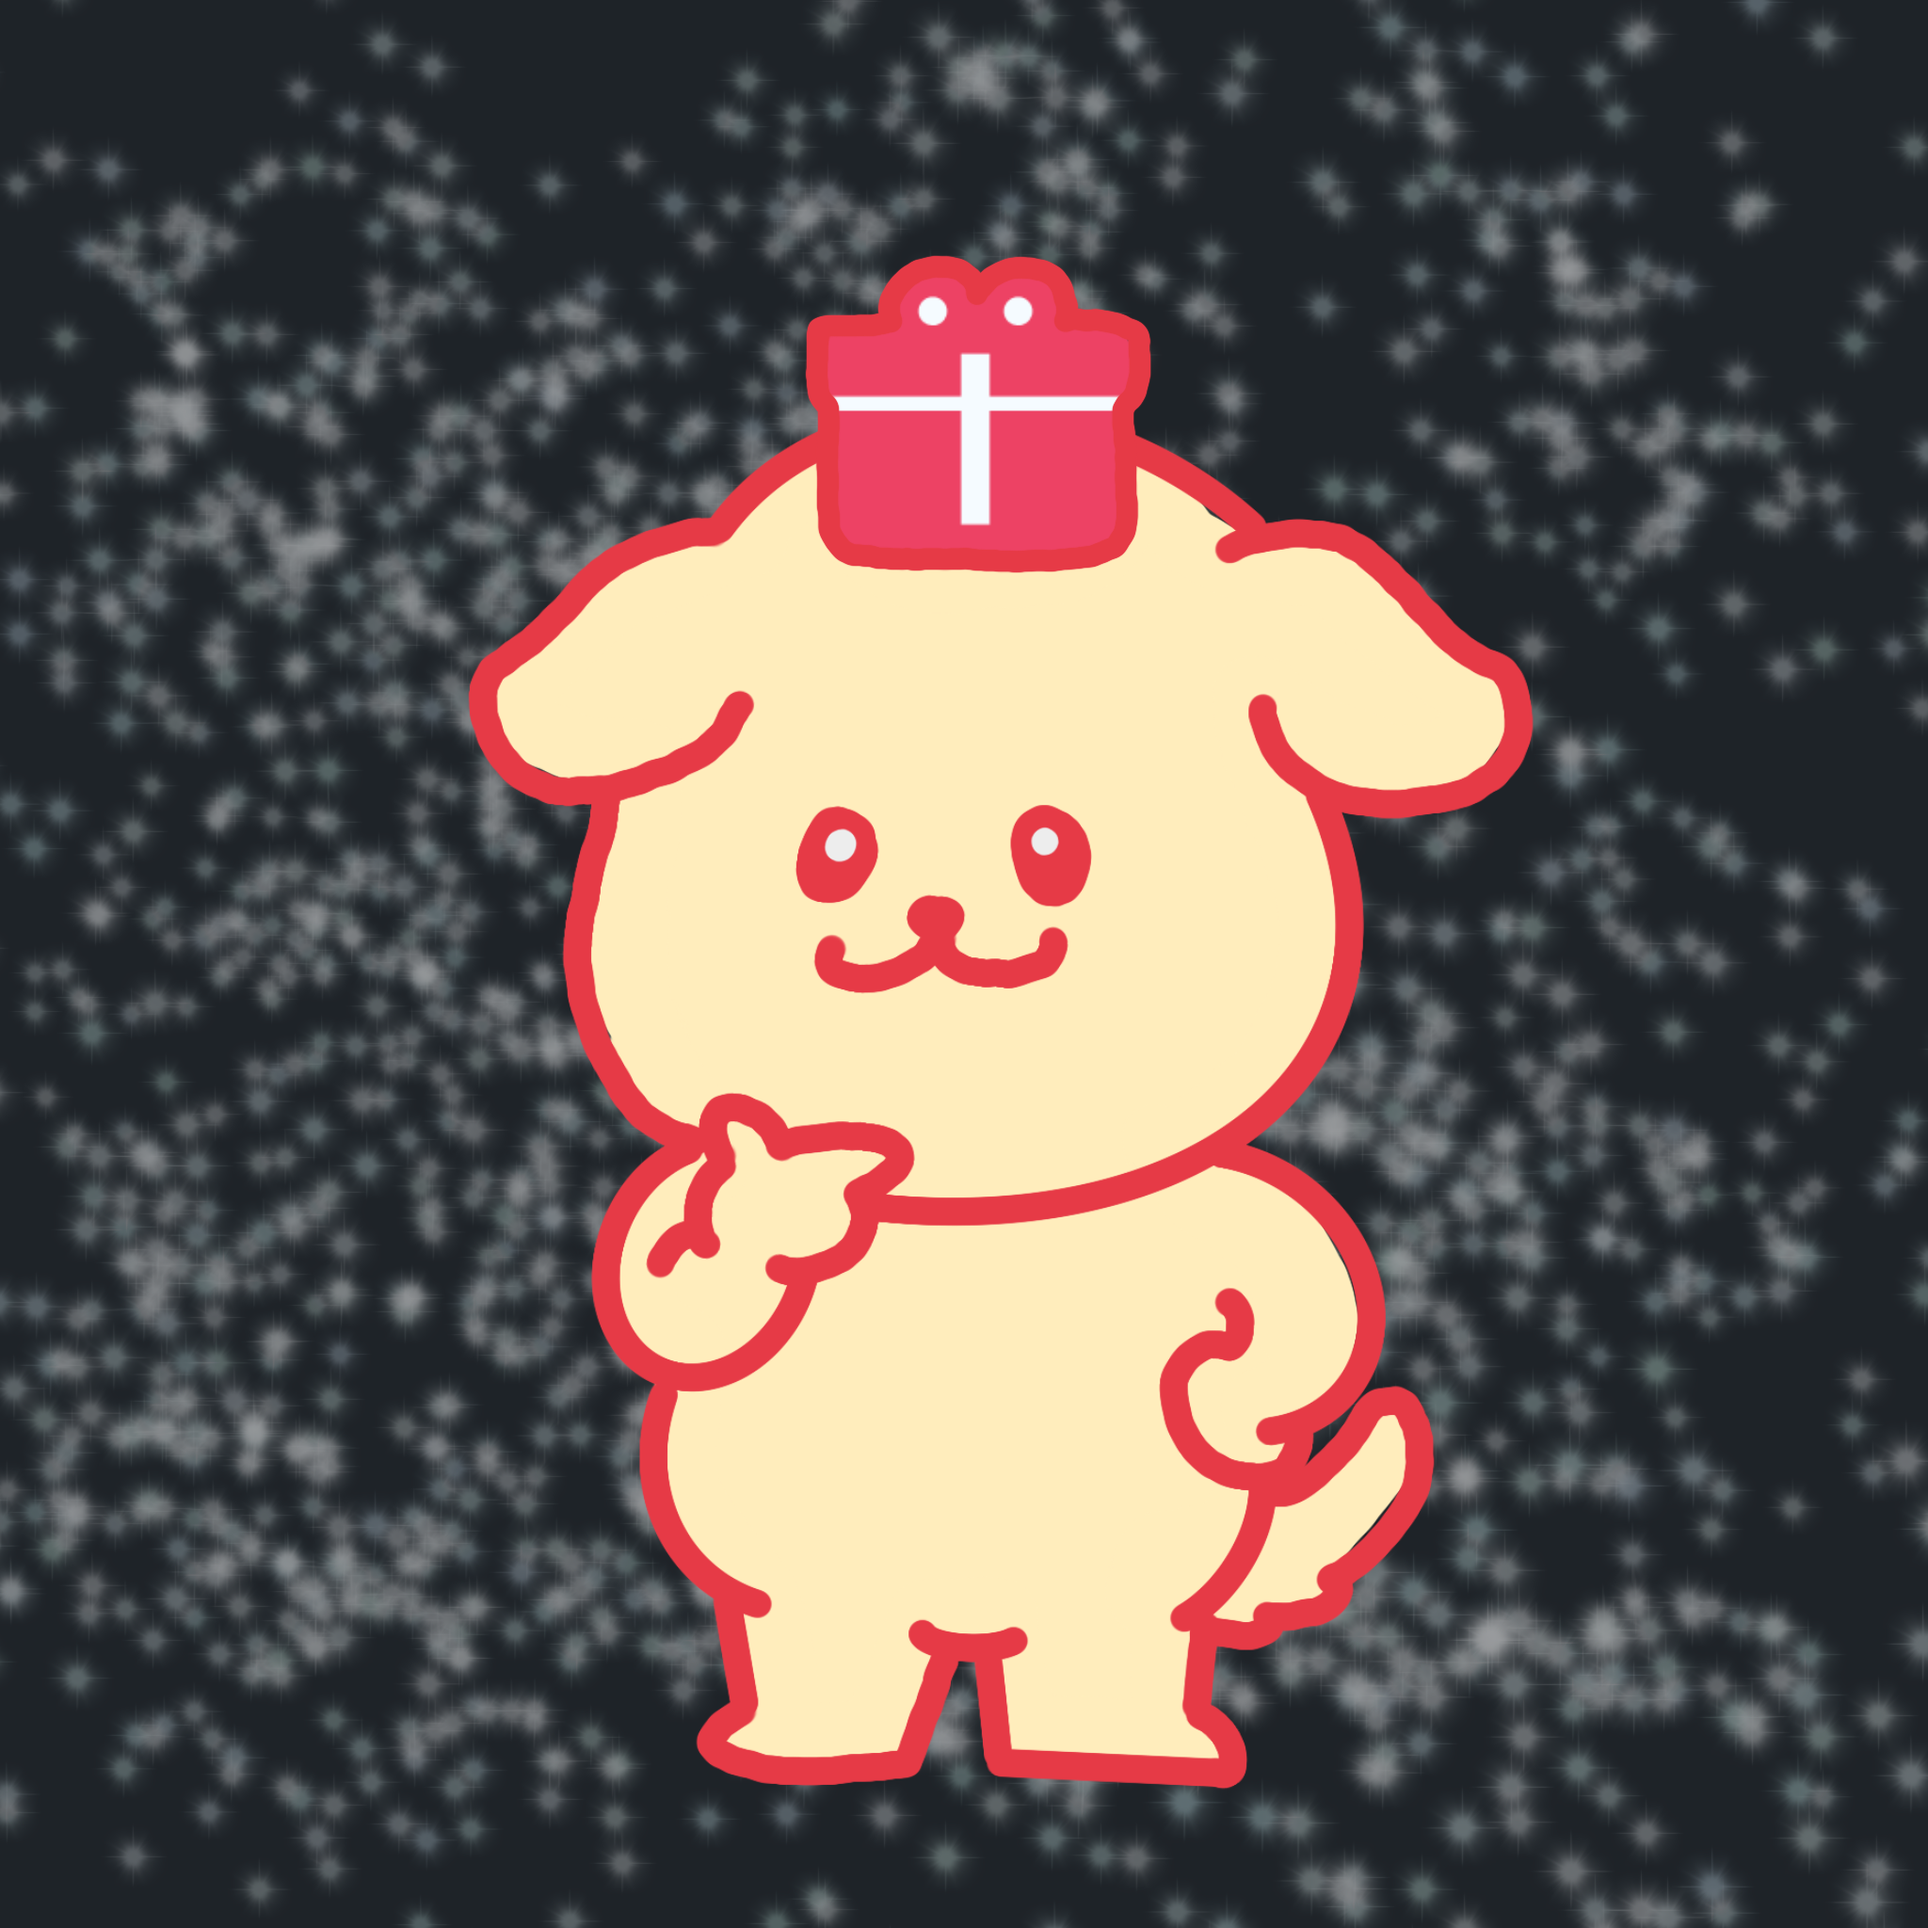
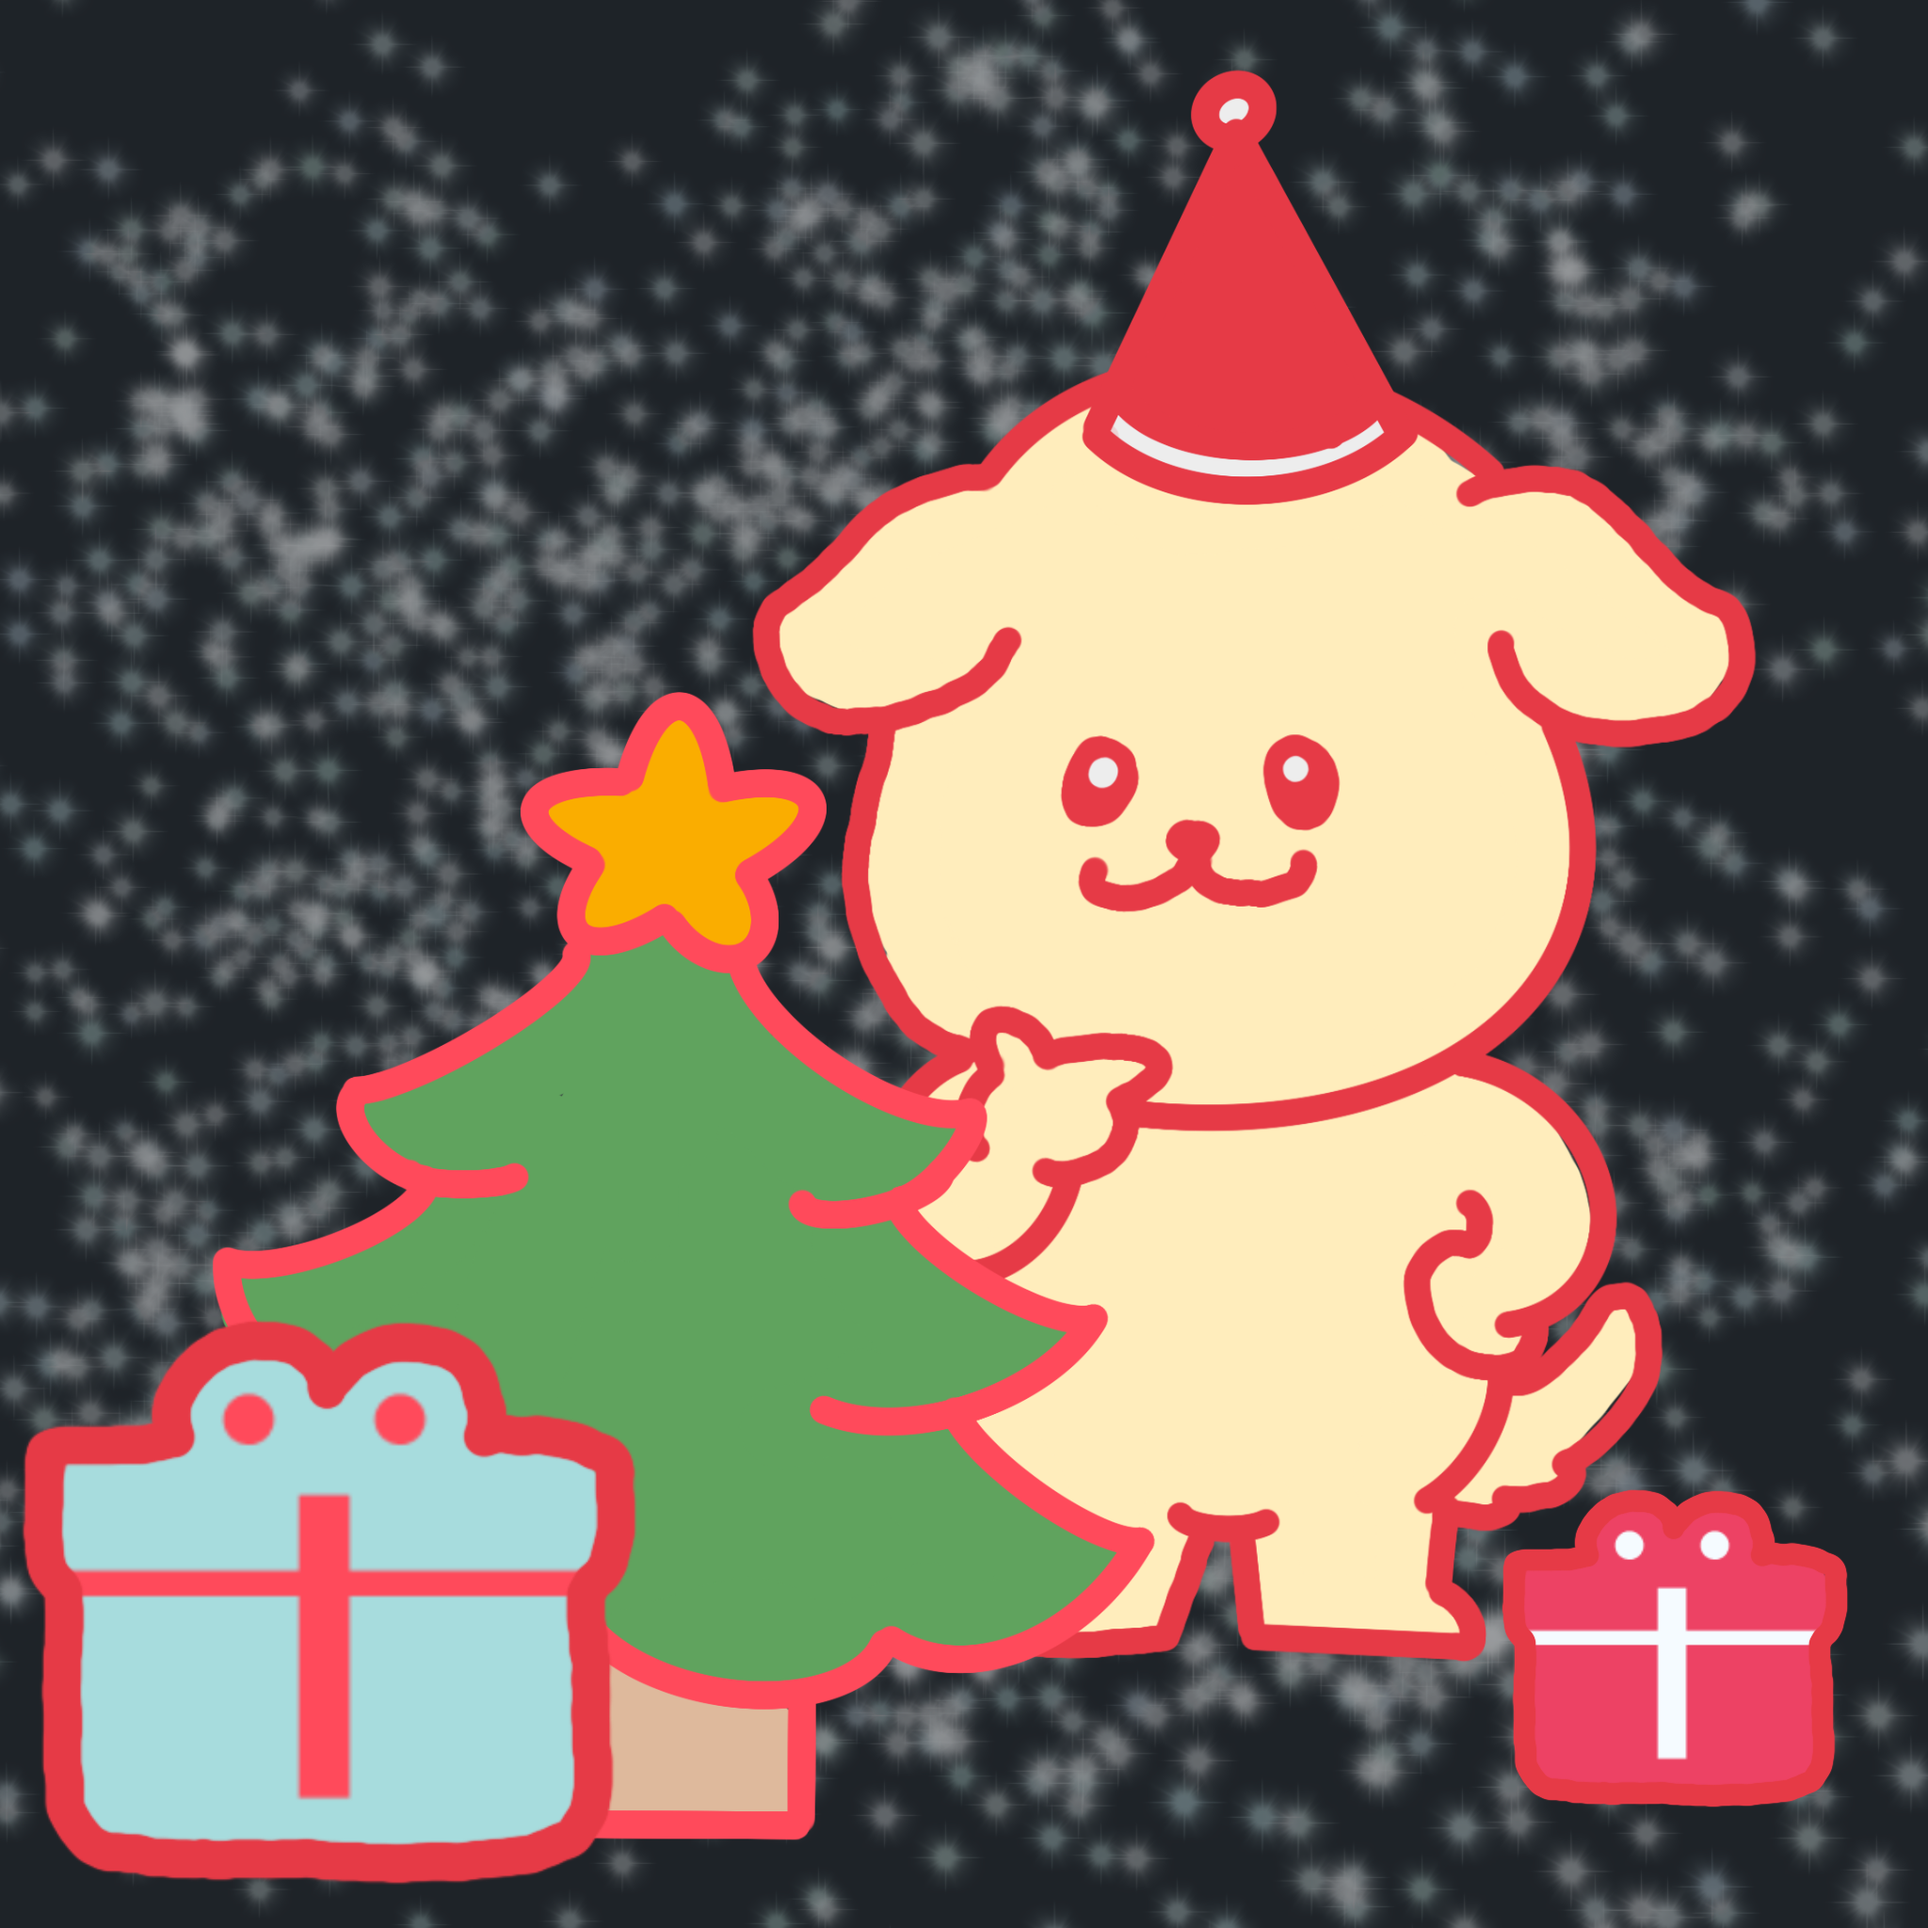
Modify: 삽화 업데이트

diff --git a/src/pages/FinalResultPage.jsx b/src/pages/FinalResultPage.jsx
@@ -53,7 +53,7 @@ const FinalResultPage = () => {
         content: {
           title: `"${match.giver}"님의 비밀번호는 "${match.password}" 입니다! 🎁`,
           description: `${leaderName}님이 만든 ${groupName} 결과를 확인하고 준비하세요!`,
-          imageUrl: "https://i.ibb.co/QbHpY2p/Landing.png",
+          imageUrl: "https://i.ibb.co/HXsKZx5/Landing-4.png",
           link: {
             mobileWebUrl: `https://manittomaker.com/showResult/${groupId}`,
             webUrl: `https://manittomaker.com/showResult/${groupId}`,
